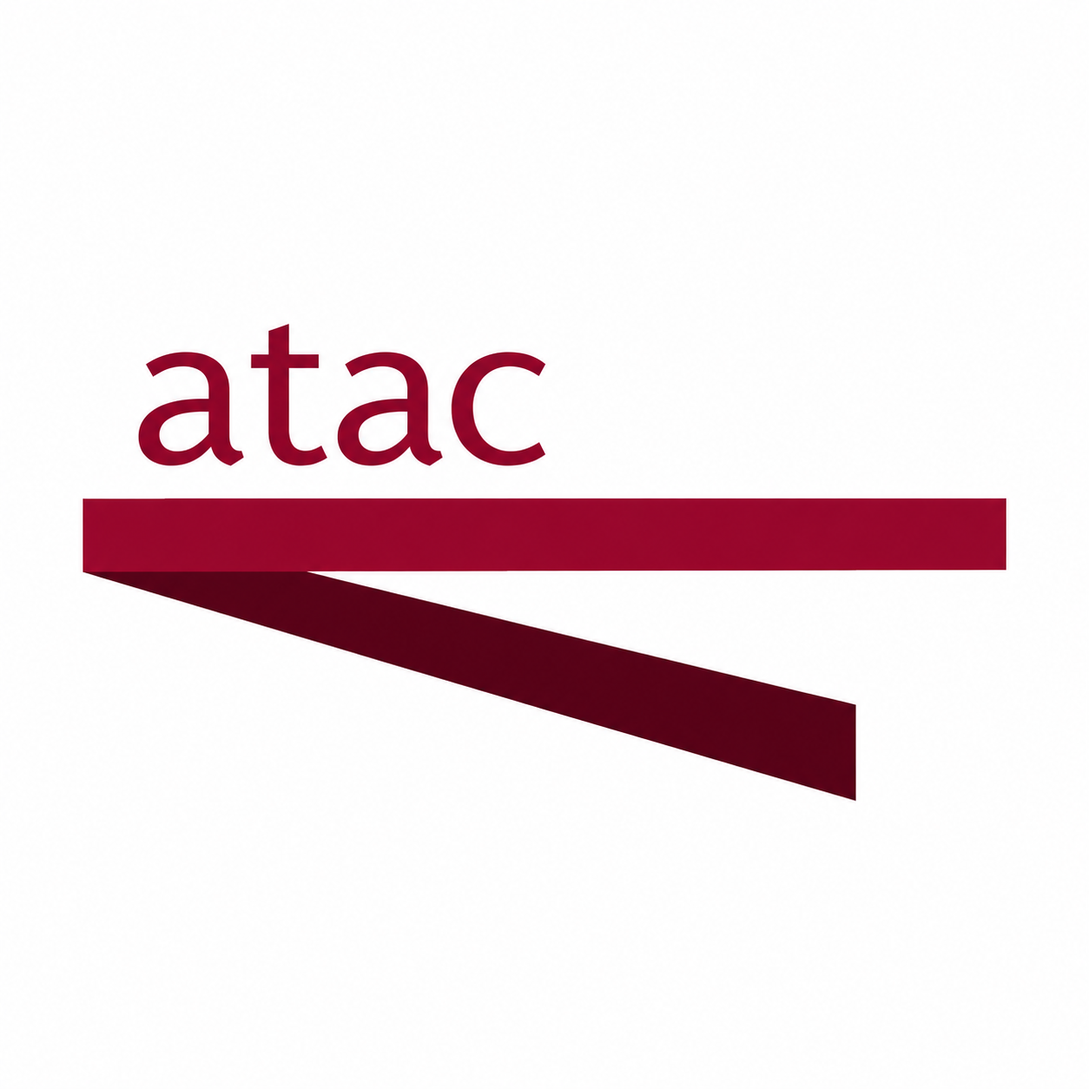
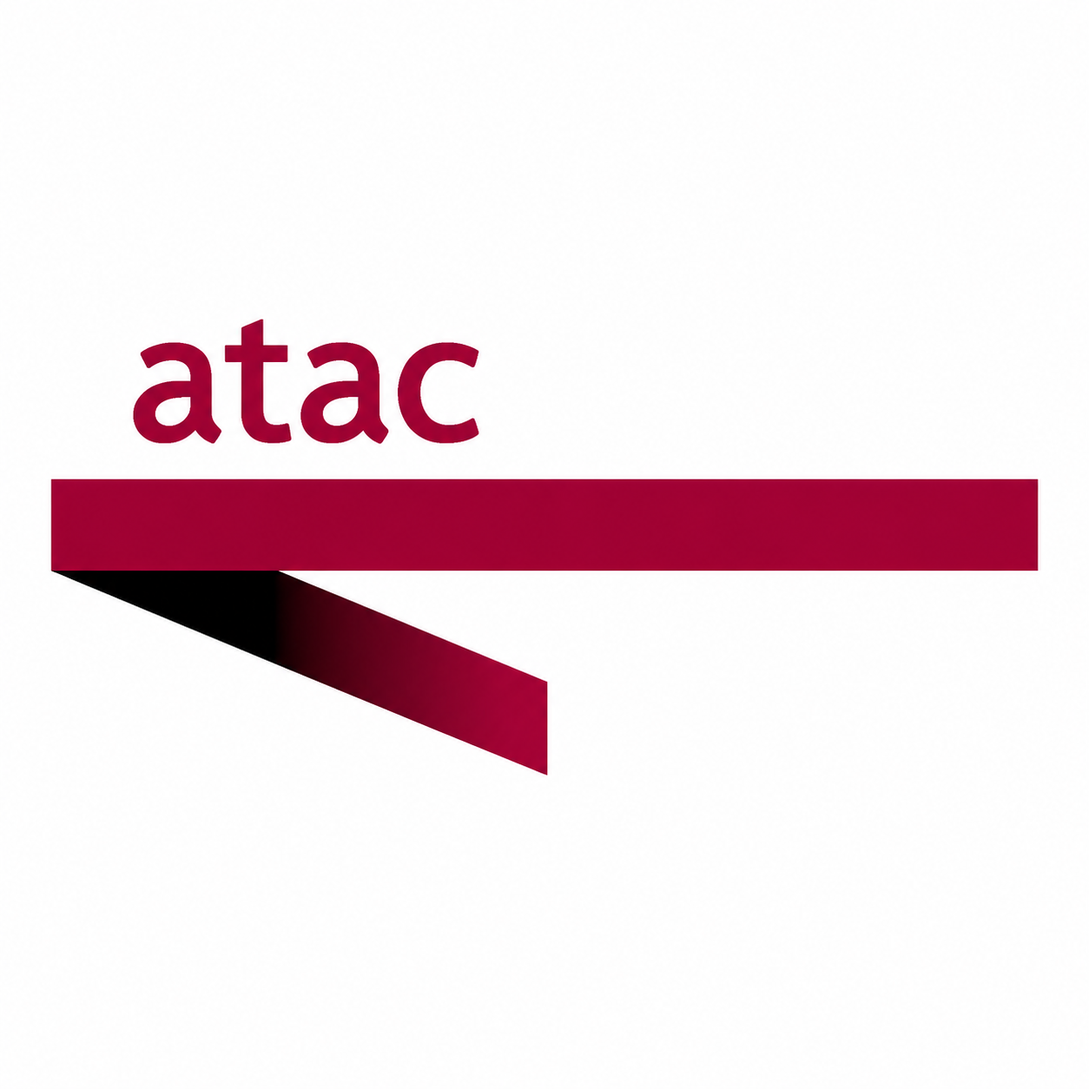
Add Liquid Glass styling, refreshed branding and persistent bottom navigation

Changed region(s): [[0.0311, 0.2799, 0.9641, 0.7464]]

diff --git a/App.tsx b/App.tsx
@@ -1,8 +1,10 @@
+import { GlassBackground, GlassPressable, GlassProvider, GlassSurface, glassStyle } from './src/ui/Glass';
+import { NavIcon } from './src/ui/NavIcon';
 import AsyncStorage from '@react-native-async-storage/async-storage';
 import { resolveArrivalDestination } from './src/lib/resolveArrival';
 import React, { useEffect, useRef, useState } from 'react';
 import { ActivityIndicator, AppState, Image, Pressable, ScrollView, StyleSheet, Text, TextInput, View } from 'react-native';
-import { SafeAreaView } from 'react-native-safe-area-context';
+import { SafeAreaView, useSafeAreaInsets } from 'react-native-safe-area-context';
 import { StatusBar } from 'expo-status-bar';
 import { Slot, router, usePathname, useLocalSearchParams, useGlobalSearchParams } from 'expo-router';
 
@@ -23,9 +25,9 @@ async function api<T>(path: string, signal?: AbortSignal): Promise<T> {
 export const clock = (t: number) => new Date(t * 1000).toLocaleTimeString('it-IT', { timeZone: 'Europe/Rome', hour: '2-digit', minute: '2-digit' });
 export const stamp = (t: number | null) => t ? `Aggiornato alle ${clock(t)}` : 'Nessun aggiornamento disponibile';
 export function Button({ text, onPress, disabled = false }: { text: string; onPress: () => void; disabled?: boolean }) {
-  return <Pressable accessibilityRole="button" disabled={disabled} onPress={onPress} style={[s.button, disabled && { opacity: 0.4 }]}><Text style={s.buttonText}>{text}</Text></Pressable>;
+  return <GlassPressable accessibilityRole="button" floating disabled={disabled} onPress={onPress} style={[s.button, disabled && { backgroundColor: '#e3dfe3' }]}><Text style={s.buttonText}>{text}</Text></GlassPressable>;
 }
-export function Notice({ text }: { text: string }) { return <View accessibilityRole="alert" style={s.notice}><Text style={s.muted}>{text}</Text></View>; }
+export function Notice({ text }: { text: string }) { return <GlassSurface accessibilityRole="alert" style={s.notice}><Text style={s.muted}>{text}</Text></GlassSurface>; }
 export function Badge({ name }: { name: string }) { return <View style={s.badge}><Text style={s.badgeText}>{name}</Text></View>; }
 
 // Abort obsolete requests. Retained line boards check vehicle freshness separately.
@@ -66,10 +68,11 @@ function StopSearch({ label, selected, onSelect }: { label: string; selected: St
     <TextInput accessibilityLabel={label} placeholder="Nome o codice fermata" placeholderTextColor="#738197" value={selected?.name || query} onChangeText={text => { onSelect(null); setQuery(text); }} style={s.input} autoCorrect={false} />
     <RequestState state={state} />
     {state.data?.length === 0 && <Text style={s.muted}>Nessuna fermata trovata.</Text>}
-    {!selected && state.data?.map(stop => <Pressable accessibilityRole="button" key={stop.stop_id} style={s.stop} onPress={() => onSelect(stop)}><Text style={s.body}>{stop.name}</Text><Text style={s.small}>Fermata {stop.stop_id}</Text></Pressable>)}
+    {!selected && state.data?.map(stop => <GlassPressable accessibilityRole="button" key={stop.stop_id} style={s.stop} onPress={() => onSelect(stop)}><Text style={s.body}>{stop.name}</Text><Text style={s.small}>Fermata {stop.stop_id}</Text></GlassPressable>)}
   </View>;
 }
 export default function App() {
+  const insets = useSafeAreaInsets();
   const [logoReady, setLogoReady] = useState(false);
   const pathname = usePathname();
   const params = useGlobalSearchParams<{ id?: string; variant?: string; stopId?: string; fromRouteId?: string; fromVariant?: string; fromLine?: string }>();
@@ -77,45 +80,54 @@ export default function App() {
   const home = pathname === '/';
   const lineDetail = pathname.startsWith('/line/');
   const stopDetail = pathname.startsWith('/stop/') || (pathname === '/stops' && Boolean(params.stopId));
-  const tab = pathname === '/stops' ? 'stops' : pathname === '/plan' ? 'plan' : 'lines';
+  const tab = stopDetail || pathname === '/stops' ? 'stops' : pathname === '/plan' ? 'plan' : 'lines';
   useEffect(() => { scroll.current?.scrollTo({ y: 0, animated: false }); }, [pathname, params.stopId]);
   const returnToSearch = () => router.replace({ pathname: '/lines', params: { focus: '1' } });
   const returnFromStop = () => {
     if (params.fromRouteId && params.fromVariant) router.replace({ pathname: '/line/[id]/[variant]', params: { id: params.fromRouteId, variant: params.fromVariant } });
     else router.replace('/stops');
   };
-  return <SafeAreaView style={s.safe}><StatusBar style="dark" />
-    {!home && !lineDetail && !stopDetail && <View style={s.fixedHeader}><Pressable accessibilityRole="button" accessibilityLabel="Torna alla home" style={s.headerAction} onPress={() => router.replace('/')}><Text style={s.headerActionText}>← Home</Text></Pressable></View>}
-    {!home && !lineDetail && !stopDetail && <View style={s.tabs}>{([['lines', 'Linee'], ['stops', 'Fermate'], ['plan', 'Percorso']] as const).map(([key, label]) => <Pressable accessibilityRole="tab" accessibilityState={{ selected: key === tab }} key={key} onPress={() => router.replace(key === 'lines' ? '/lines' : key === 'stops' ? '/stops' : '/plan')} style={[s.tab, key === tab && s.active]}><Text style={[s.tabText, key === tab && { color: '#a01d35' }]}>{label}</Text></Pressable>)}</View>}
+  return <GlassProvider><View style={s.safe}><GlassBackground /><SafeAreaView edges={['top', 'left', 'right']} style={s.safeContent}><StatusBar style="dark" />
+    {!home && !lineDetail && !stopDetail && <View style={s.fixedHeader}><GlassPressable floating accessibilityRole="button" accessibilityLabel="Torna alla home" style={s.headerAction} onPress={() => router.replace('/')}><Text style={s.headerActionText}>← Home</Text></GlassPressable></View>}
+
     {(lineDetail || stopDetail) && <View style={s.fixedHeader}>
-      <Pressable accessibilityRole="button" accessibilityLabel={lineDetail ? 'Torna a cerca linea' : params.fromRouteId && params.fromVariant ? 'Torna alla linea' : 'Torna a cerca fermata'} style={[s.headerAction, s.headerReturn]} onPress={lineDetail ? returnToSearch : returnFromStop}>
+      <GlassPressable floating accessibilityRole="button" accessibilityLabel={lineDetail ? 'Torna a cerca linea' : params.fromRouteId && params.fromVariant ? 'Torna alla linea' : 'Torna a cerca fermata'} style={[s.headerAction, s.headerReturn]} onPress={lineDetail ? returnToSearch : returnFromStop}>
         <Text numberOfLines={1} style={s.headerActionText}>{lineDetail ? '← Cerca linea' : params.fromRouteId && params.fromVariant ? `← Torna alla linea ${params.fromLine || ''}` : '← Cerca fermata'}</Text>
-      </Pressable>
-      {lineDetail && params.id && params.variant && <Pressable accessibilityRole="button" accessibilityLabel="Cambia direzione" style={s.headerAction} onPress={() => router.replace({ pathname: '/line/[id]', params: { id: params.id! } })}><Text style={s.headerActionText}>Direzione</Text></Pressable>}
+      </GlassPressable>
+      {lineDetail && params.id && params.variant && <GlassPressable floating accessibilityRole="button" accessibilityLabel="Cambia direzione" style={s.headerAction} onPress={() => router.replace({ pathname: '/line/[id]', params: { id: params.id! } })}><Text style={s.headerActionText}>Direzione</Text></GlassPressable>}
     </View>}
     <View style={[s.content, home && s.homeContent]}><ScrollView ref={scroll} keyboardShouldPersistTaps="handled" contentContainerStyle={home ? s.homeScroll : s.scroll}>
       <Slot />
     </ScrollView></View>
+    {!home && <View pointerEvents="box-none" style={[s.bottomDock, { paddingBottom: Math.max(insets.bottom, 12) }]}>
+      <GlassSurface floating style={s.bottomBar} accessibilityRole="tablist">
+        {([['lines', 'Linee'], ['stops', 'Fermate'], ['plan', 'Percorso']] as const).map(([key, label]) => <Pressable key={key} accessibilityRole="tab" accessibilityLabel={label} aria-selected={key === tab} accessibilityState={{ selected: key === tab }} onPress={() => router.replace(key === 'lines' ? '/lines' : key === 'stops' ? '/stops' : '/plan')} style={({ pressed }) => [s.bottomTab, key === tab && s.bottomTabActive, pressed && s.bottomTabPressed]}>
+          <NavIcon kind={key} active={key === tab} /><Text style={[s.bottomTabText, key === tab && s.bottomTabSelected]}>{label}</Text>
+        </Pressable>)}
+      </GlassSurface>
+    </View>}
     {!logoReady && <View accessibilityLabel="Avvio app" style={s.launchScreen}>
       <Image source={ATAC_LOGO} resizeMode="contain" accessibilityLabel="Logo ATAC" style={s.launchLogo} onLoadEnd={() => requestAnimationFrame(() => requestAnimationFrame(() => setLogoReady(true)))} />
-      <ActivityIndicator color="#a01d35" accessibilityLabel="Caricamento" />
+      <Text style={s.launchName}>ROMA · AUTOBUS</Text>
+      <ActivityIndicator color="#96002d" accessibilityLabel="Caricamento" />
     </View>}
-  </SafeAreaView>;
+  </SafeAreaView></View></GlassProvider>;
 }
 export function Home() {
   const state = useData<Health>('status', 30000);
   const live = state.data?.vehicles.available && state.data?.updates.available;
   return <View style={s.home}>
     <View style={s.homeHeader}>
-      <View style={s.row}><Text style={s.eyebrow}>ROMA · AUTOBUS</Text><Text style={[s.small, { color: live ? '#167450' : '#9b6a20' }]}>{live ? '● Feed live' : state.loading ? 'Verifica live…' : '● Live non disponibile'}</Text></View>
-      <Image source={ATAC_LOGO} resizeMode="contain" accessibilityLabel="Logo ATAC" style={s.homeLogo} />
+      <Image source={ATAC_LOGO} resizeMode="cover" accessibilityLabel="Logo ATAC" style={s.homeLogo} />
+      <Text style={s.eyebrow}>ROMA · AUTOBUS</Text>
+      <Text style={[s.livePill, { color: live ? '#167450' : '#815b25' }]}>{live ? '● Feed live' : state.loading ? 'Verifica live…' : '● Live non disponibile'}</Text>
       <Text style={s.homeTitle}>La città, in movimento.</Text>
       <Text style={s.homeSubtitle}>Linee, fermate e percorsi a Roma</Text>
     </View>
     <View style={s.homeActions}>
-      <Button text="Cerca linea" onPress={() => router.push('/lines')} />
-      <Button text="Cerca fermata" onPress={() => router.push('/stops')} />
-      <Button text="Calcola percorso" onPress={() => router.push('/plan')} />
+      {([['lines', 'Cerca linea'], ['stops', 'Cerca fermata'], ['plan', 'Calcola percorso']] as const).map(([kind, label]) => <GlassPressable floating key={kind} accessibilityRole="button" style={s.homeAction} onPress={() => router.push(kind === 'lines' ? '/lines' : kind === 'stops' ? '/stops' : '/plan')}>
+        <View style={s.homeActionIcon}><NavIcon kind={kind} active /></View><Text style={s.homeActionText}>{label}</Text><Text style={s.arrow}>›</Text>
+      </GlassPressable>)}
     </View>
   </View>;
 }
@@ -154,7 +166,7 @@ export function Lines() {
     {state.data?.length === 0 && <Notice text="Nessuna linea trovata." />}
     {!!recentError && <Notice text={recentError} />}
     {opening && <ActivityIndicator color="#a01d35" />}
-    {results.map(r => <Pressable disabled={opening} accessibilityRole="button" key={r.route_id} style={s.route} onPress={() => openLine(r)}><Badge name={r.name} /><View style={s.flex}><Text style={s.body}>{r.description || `Linea ${r.name}`}</Text><Text style={s.small}>Scegli la direzione →</Text></View><Text style={s.arrow}>›</Text></Pressable>)}
+    {results.map(r => <GlassPressable disabled={opening} accessibilityRole="button" key={r.route_id} style={s.route} onPress={() => openLine(r)}><Badge name={r.name} /><View style={s.flex}><Text style={s.body}>{r.description || `Linea ${r.name}`}</Text><Text style={s.small}>Scegli la direzione →</Text></View><Text style={s.arrow}>›</Text></GlassPressable>)}
   </View>;
 }
 export function Stops() {
@@ -193,7 +205,7 @@ export function Stops() {
   return <View style={s.stack}>
     <Text style={s.heading}>{specificStop ? 'Autobus in arrivo' : 'Cerca fermata'}</Text>
     {specificStop && <Text style={s.muted}>Tutte le linee · prossime 2 ore</Text>}
-    {specificStop && stop ? <View style={s.card}><Text style={s.heading}>{stop.name}</Text><Text style={s.small}>Fermata {stop.stop_id}</Text></View> : <StopSearch label="Fermata" selected={stop} onSelect={selected => { if (selected) router.push({ pathname: '/stop/[stopId]', params: { stopId: selected.stop_id, stopName: selected.name } }); else setStop(null); }} />}
+    {specificStop && stop ? <GlassSurface style={s.card}><Text style={s.heading}>{stop.name}</Text><Text style={s.small}>Fermata {stop.stop_id}</Text></GlassSurface> : <StopSearch label="Fermata" selected={stop} onSelect={selected => { if (selected) router.push({ pathname: '/stop/[stopId]', params: { stopId: selected.stop_id, stopName: selected.name } }); else setStop(null); }} />}
     <RequestState state={state} />
     {openingRoute && <View style={s.row}><ActivityIndicator color="#a01d35" /><Text style={s.muted}>Apertura itinerario…</Text></View>}
     {!!navigationError && <Notice text={navigationError} />}
@@ -203,10 +215,10 @@ export function Stops() {
       <Text style={s.muted}>{liveFresh ? stamp(state.data.timestamp) : 'Previsioni live non disponibili · solo orari programmati'}</Text>
       <Text style={s.label}>{arrivals.length} {arrivals.length === 1 ? 'arrivo disponibile' : 'arrivi disponibili'} per questa fermata</Text>
       {!arrivals.length && <Notice text="Nessun arrivo disponibile nelle prossime 2 ore. Riprova o aggiorna gli orari." />}
-      {arrivals.map((a,i) => <Pressable key={`${a.tripId}-${i}`} accessibilityRole="button" accessibilityLabel={`Linea ${a.line}, direzione ${a.headsign}${a.vehicleId ? `, vettura ${a.vehicleId}` : ''}, mostra itinerario e autobus`} disabled={openingRoute === a.tripId} style={s.route} onPress={() => { void openArrival(a); }}>
+      {arrivals.map((a,i) => <GlassPressable key={`${a.tripId}-${i}`} accessibilityRole="button" accessibilityLabel={`Linea ${a.line}, direzione ${a.headsign}${a.vehicleId ? `, vettura ${a.vehicleId}` : ''}, mostra itinerario e autobus`} disabled={openingRoute === a.tripId} style={s.route} onPress={() => { void openArrival(a); }}>
         <Badge name={a.line} /><View style={s.flex}><Text style={s.body}>{a.headsign || 'Autobus'}</Text><Text style={[s.small, a.kind === 'live' && { color: '#167450' }]}>{a.kind === 'live' ? `● Previsione live · vettura ${a.vehicleId || 'non disponibile'}` : 'Orario programmato'}</Text></View>
         <View style={s.arrivalTime}><Text style={s.time}>{Math.ceil((a.time - now) / 60) <= 1 ? '≤1 min' : `${Math.ceil((a.time - now) / 60)} min`}</Text><Text style={s.small}>{clock(a.time)} ›</Text></View>
-      </Pressable>)}
+      </GlassPressable>)}
     </>}
   </View>;
 }
@@ -233,27 +245,29 @@ export function Planner() {
     <Button text={loading ? 'Calcolo in corso…' : 'Trova percorso →'} disabled={!origin || !destination || loading} onPress={() => { void calculate(); }} />
     <Notice text="Orari programmati: solo autobus, cambi alla stessa fermata e margine di 2 minuti. Nessun tratto a piedi; traffico e previsioni live non modificano l’itinerario." />
     {!!error && <Notice text={error} />}
-    {journey && <><Text style={s.muted}>{journey.message}</Text>{journey.legs.map((leg,i) => <View key={i} style={s.card}><View style={s.row}><Badge name={leg.line} /><Text style={s.heading}>{clock(leg.departure)} → {clock(leg.arrival)}</Text></View><Text style={s.body}>{leg.fromName}</Text><Text style={s.muted}>↓ {leg.stops} {leg.stops === 1 ? 'fermata' : 'fermate'}</Text><Text style={s.body}>{leg.toName}</Text>{i < journey.legs.length-1 && <Text style={s.link}>Cambia autobus qui</Text>}</View>)}</>}
+    {journey && <><Text style={s.muted}>{journey.message}</Text>{journey.legs.map((leg,i) => <GlassSurface key={i} style={s.card}><View style={s.row}><Badge name={leg.line} /><Text style={s.heading}>{clock(leg.departure)} → {clock(leg.arrival)}</Text></View><Text style={s.body}>{leg.fromName}</Text><Text style={s.muted}>↓ {leg.stops} {leg.stops === 1 ? 'fermata' : 'fermate'}</Text><Text style={s.body}>{leg.toName}</Text>{i < journey.legs.length-1 && <Text style={s.link}>Cambia autobus qui</Text>}</GlassSurface>)}</>}
   </View>;
 }
 const s = StyleSheet.create({
-  safe: { flex: 1, backgroundColor: '#f8f6f2' },
-  homeLogo: { width: 100, height: 50, alignSelf: 'flex-start' }, launchScreen: { position: 'absolute', top: 0, right: 0, bottom: 0, left: 0, zIndex: 10, backgroundColor: '#ffffff', justifyContent: 'center', alignItems: 'center', gap: 24 }, launchLogo: { width: 200, height: 100 },
-  fixedHeader: { minHeight: 56, paddingHorizontal: 16, paddingVertical: 6, flexDirection: 'row', justifyContent: 'flex-start', alignItems: 'center', gap: 8, borderBottomWidth: 1, borderBottomColor: '#e3dfd8', marginBottom: 12 },
-  headerAction: { minHeight: 44, justifyContent: 'center', paddingHorizontal: 12, borderRadius: 10 }, headerReturn: { backgroundColor: '#ebe8e3', maxWidth: '80%' }, headerActionText: { color: '#a01d35', fontWeight: '700', fontSize: 13 },
-  homeContent: { paddingHorizontal: 24 }, homeScroll: { flexGrow: 1 }, home: { flex: 1, gap: 32, width: '100%', maxWidth: 420, alignSelf: 'center', paddingVertical: 20 }, homeHeader: { gap: 8 }, homeActions: { gap: 20 }, eyebrow: { fontSize: 11, fontWeight: '800', color: '#a01d35', letterSpacing: 1.4, flex: 1 }, homeTitle: { fontSize: 34, fontWeight: '800', color: '#202d3a', marginTop: 14, letterSpacing: -1.3 }, homeSubtitle: { color: '#596878', fontSize: 16 }, flex: { flex: 1 }, stack: { gap: 14 },
+  safe: { flex: 1, backgroundColor: '#f4f0f3' }, safeContent: { flex: 1 },
+  homeLogo: { width: 240, height: 130, alignSelf: 'center' }, launchScreen: { position: 'absolute', top: 0, right: 0, bottom: 0, left: 0, zIndex: 10, backgroundColor: '#ffffff', justifyContent: 'center', alignItems: 'center', gap: 8 }, launchLogo: { width: 240, height: 240 }, launchName: { color: '#96002d', fontWeight: '800', fontSize: 12, letterSpacing: 2, marginBottom: 24 },
+  fixedHeader: { minHeight: 56, paddingHorizontal: 16, paddingVertical: 6, flexDirection: 'row', justifyContent: 'flex-start', alignItems: 'center', gap: 8, marginBottom: 12 },
+  headerAction: { minHeight: 44, justifyContent: 'center', paddingHorizontal: 12, borderRadius: 22 }, headerReturn: { maxWidth: '100%' }, headerActionText: { color: '#a01d35', fontWeight: '700', fontSize: 13 },
+  homeContent: { paddingHorizontal: 24 }, homeScroll: { flexGrow: 1 }, home: { flex: 1, gap: 28, width: '100%', maxWidth: 420, alignSelf: 'center', paddingTop: 12, paddingBottom: 36 }, homeHeader: { gap: 12, alignItems: 'center' }, homeActions: { gap: 14 }, eyebrow: { fontSize: 11, fontWeight: '800', color: '#a01d35', letterSpacing: 2.2 }, homeTitle: { fontSize: 34, fontWeight: '800', color: '#202d3a', marginTop: 6, letterSpacing: -1.3, textAlign: 'center' }, homeSubtitle: { color: '#536373', fontSize: 15, textAlign: 'center' }, flex: { flex: 1 }, stack: { gap: 14 },
   row: { flexDirection: 'row', alignItems: 'center', gap: 12 },
-  tabs: { flexDirection: 'row', marginHorizontal: 20, padding: 5, backgroundColor: '#ebe8e3', borderRadius: 16, marginBottom: 12, marginTop: 8 },
-  tab: { flex: 1, paddingVertical: 12, alignItems: 'center', borderRadius: 12 }, active: { backgroundColor: '#fff' }, tabText: { fontWeight: '600', color: '#596878', fontSize: 15 },
-  content: { flex: 1, paddingHorizontal: 20 }, scroll: { paddingBottom: 30, gap: 14 }, heading: { color: '#202d3a', fontSize: 20, fontWeight: '700', flexShrink: 1 },
+  livePill: { fontSize: 11, fontWeight: '600', paddingHorizontal: 12, paddingVertical: 6, borderRadius: 20, backgroundColor: 'rgba(255,255,255,0.65)', overflow: 'hidden' },
+  homeAction: { flexDirection: 'row', alignItems: 'center', padding: 16, gap: 14, borderRadius: 26, minHeight: 78 }, homeActionIcon: { width: 44, height: 44, borderRadius: 16, backgroundColor: 'rgba(150,0,45,0.06)', alignItems: 'center', justifyContent: 'center' }, homeActionText: { flex: 1, color: '#253240', fontSize: 17, fontWeight: '700' },
+  bottomDock: { position: 'absolute', bottom: 0, left: 0, right: 0, paddingHorizontal: 16, paddingTop: 12 }, bottomBar: { flexDirection: 'row', borderRadius: 32, padding: 6, maxWidth: 460, width: '100%', alignSelf: 'center' },
+  bottomTab: { flex: 1, alignItems: 'center', justifyContent: 'center', gap: 4, paddingVertical: 10, borderRadius: 26, minHeight: 62 }, bottomTabActive: { backgroundColor: 'rgba(150,0,45,0.085)', boxShadow: 'inset 0 1px 0 rgba(255,255,255,0.9)' }, bottomTabPressed: { backgroundColor: 'rgba(150,0,45,0.12)' }, bottomTabText: { color: '#536373', fontSize: 11, fontWeight: '600' }, bottomTabSelected: { color: '#96002d', fontWeight: '800' },
+  content: { flex: 1, paddingHorizontal: 20 }, scroll: { paddingBottom: 140, gap: 14 }, heading: { color: '#202d3a', fontSize: 20, fontWeight: '700', flexShrink: 1 },
   muted: { color: '#596878', fontSize: 14, lineHeight: 21 }, small: { color: '#596878', fontSize: 11, lineHeight: 16 }, body: { color: '#202d3a', fontSize: 16, fontWeight: '600' },
-  input: { backgroundColor: '#fff', borderWidth: 1, borderColor: '#dedbd5', borderRadius: 14, paddingHorizontal: 16, paddingVertical: 16, color: '#202d3a', fontSize: 16, marginVertical: 12 },
-  route: { paddingVertical: 18, borderBottomWidth: 1, borderBottomColor: '#e3dfd8', flexDirection: 'row', gap: 14, alignItems: 'center' },
-  badge: { minWidth: 52, borderRadius: 12, padding: 12, backgroundColor: '#a01d35', alignItems: 'center' }, badgeText: { color: '#fff', fontSize: 18, fontWeight: '800' },
+  input: { ...glassStyle, borderRadius: 24, paddingHorizontal: 16, paddingVertical: 16, color: '#202d3a', fontSize: 16, marginVertical: 12 },
+  route: { padding: 16, flexDirection: 'row', gap: 14, alignItems: 'center' },
+  badge: { minWidth: 52, borderRadius: 18, padding: 12, backgroundColor: 'rgba(150,0,45,0.10)', alignItems: 'center', borderWidth: 1, borderColor: 'rgba(150,0,45,0.08)' }, badgeText: { color: '#96002d', fontSize: 18, fontWeight: '800' },
   arrow: { fontSize: 28, color: '#a01d35' }, time: { fontSize: 20, fontWeight: '700', color: '#202d3a' },
   arrivalTime: { alignItems: 'flex-end', gap: 4 },
-  button: { backgroundColor: '#a01d35', padding: 16, borderRadius: 14, alignItems: 'center' }, buttonText: { color: '#fff', fontWeight: '700', fontSize: 15 },
-  notice: { backgroundColor: '#eee9df', padding: 14, borderRadius: 12, marginVertical: 8 }, card: { backgroundColor: '#fff', borderRadius: 18, padding: 18, gap: 12, borderColor: '#e4dfd8', borderWidth: 1 },
+  button: { padding: 16, borderRadius: 24, alignItems: 'center' }, buttonText: { color: '#96002d', fontWeight: '700', fontSize: 15 },
+  notice: { padding: 14, borderRadius: 20, marginVertical: 8 }, card: { borderRadius: 24, padding: 18, gap: 12 },
   link: { color: '#a01d35', fontWeight: '600', fontSize: 14 },
-  label: { color: '#202d3a', fontSize: 13, fontWeight: '700' }, stop: { padding: 14, backgroundColor: '#fff', borderBottomWidth: 1, borderBottomColor: '#eee9df' },
+  label: { color: '#202d3a', fontSize: 13, fontWeight: '700' }, stop: { padding: 14, marginBottom: 8 },
 });

diff --git a/src/components/LineDetails.tsx b/src/components/LineDetails.tsx
@@ -1,3 +1,4 @@
+import { GlassPressable, GlassSurface } from '../ui/Glass';
 import React, { useEffect, useState } from 'react';
 import { Linking, Pressable, ScrollView, StyleSheet, Text, View } from 'react-native';
 import { router, useLocalSearchParams } from 'expo-router';
@@ -18,10 +19,10 @@ export function RouteDirections() {
       <View style={s.row}><Badge name={state.data.route.name} /><Text style={s.heading}>Scegli la direzione</Text></View>
       <Text style={s.muted}>Verso quale capolinea vuoi andare?</Text>
       {!state.data.variants.length && <Notice text="Nessuna direzione in servizio ora o in partenza nella prossima ora." />}
-      {state.data.variants.map(variant => <Pressable accessibilityRole="button" accessibilityLabel={`Direzione ${variant.headsign}, da ${variant.fromName}`} key={variant.id}
+      {state.data.variants.map(variant => <GlassPressable accessibilityRole="button" accessibilityLabel={`Direzione ${variant.headsign}, da ${variant.fromName}`} key={variant.id}
         style={s.direction} onPress={() => router.push({ pathname: '/line/[id]/[variant]', params: { id, variant: variant.id } })}>
         <View style={s.flex}><Text style={s.kicker}>DIREZIONE</Text><Text style={s.directionName}>{variant.headsign}</Text><Text style={s.muted}>Da {variant.fromName}</Text><Text style={s.small}>{variant.stopCount} fermate</Text></View><Text style={s.chevron}>›</Text>
-      </Pressable>)}
+      </GlassPressable>)}
     </>}
   </View>;
 }
@@ -52,15 +53,15 @@ export function RouteTimeline() {
     <RequestState state={state} />
     {data && <>
       <Text style={s.heading}>{data.route.name}-{data.selectedVariant.headsign.toLocaleUpperCase('it-IT')}</Text>
-      <View style={s.departureStrip}>
+      <GlassSurface style={s.departureStrip}>
         <Text numberOfLines={1} style={s.departureLabel} accessibilityLabel="Partenze dal capolinea, da dieci minuti fa a un’ora avanti">Partenze da {data.selectedVariant.fromName.toLocaleUpperCase('it-IT')}:</Text>
         <ScrollView horizontal showsHorizontalScrollIndicator={false} style={s.departureScroller} contentContainerStyle={s.departureTrack}>
           {departures.map((departure, i) => <Text key={`${departure.tripId}-${departure.serviceDate}-${i}`} numberOfLines={1} accessibilityLabel={`Partenza ${clock(departure.time)}, ${departure.kind === 'live' ? 'previsione live' : 'orario programmato'}`} style={[s.departureTime, departure.kind === 'live' && s.liveTime, departure.time < now && s.pastTime]}>{clock(departure.time)} <Text style={s.departureKind}>{departure.kind === 'live' ? 'live' : 'prog.'}</Text></Text>)}
           {!departures.length && <Text style={s.small}>Nessuna nella fascia −10/+60 min</Text>}
         </ScrollView>
-      </View>
+      </GlassSurface>
       <Text style={s.heading}>Fermate</Text>
-      <View style={s.timeline}>
+      <GlassSurface style={s.timeline}>
         {data.stops.map((stop, i) => {
           const before = stop.vehiclesBefore.filter(v => fresh(v, now)), at = stop.vehiclesAt.filter(v => fresh(v, now));
           return <View key={`${stop.stop_id}-${stop.sequence}`}>
@@ -76,14 +77,14 @@ export function RouteTimeline() {
               </Pressable>
             </View>
 
-      {selected && vehicleInfo && [...stop.vehiclesAt, ...stop.vehiclesBefore].some(v => v.id === selected.id) && <View accessibilityRole="alert" style={s.vehicleInfo}>
+      {selected && vehicleInfo && [...stop.vehiclesAt, ...stop.vehiclesBefore].some(v => v.id === selected.id) && <GlassSurface accessibilityRole="alert" style={s.vehicleInfo}>
         <View style={s.row}><Text style={[s.heading, s.flex]}>Bus {selected.id}</Text><Pressable accessibilityRole="button" accessibilityLabel="Chiudi dettagli autobus" onPress={() => setVehicleInfo(null)}><Text style={s.close}>×</Text></Pressable></View>
         <Text style={s.muted}>{selected.retained || Boolean(state.error) || now - selected.timestamp > 90 ? 'Ultima posizione nota vicino a' : selected.estimated ? 'Posizione approssimata vicino a' : selected.status === 'STOPPED_AT' ? 'Alla fermata' : 'In arrivo a'} {vehicleInfo.stopName}</Text><Text style={s.small}>{selected.timestampSource === 'feed' ? 'Timestamp del feed · ' : 'Rilevazione veicolo · '}{positionStamp(selected.timestamp).replace('Posizioni alle ', '')}</Text>
         {selected.lat !== null && selected.lon !== null && <Pressable accessibilityRole="link" onPress={() => { void Linking.openURL(`https://maps.apple.com/?ll=${selected.lat},${selected.lon}&q=Bus%20${encodeURIComponent(data.route.name)}`); }}><Text style={s.link}>Apri posizione in Mappe ↗</Text></Pressable>}
-      </View>}
+      </GlassSurface>}
           </View>;
         })}
-      </View>
+      </GlassSurface>
       <Text style={s.small}>{data.liveAvailable ? `${positionStamp(data.timestamp)} · ogni 15 s` : 'Posizioni live non disponibili'}</Text>
       {data.liveAvailable && !vehicleCount && <Notice text="Nessun bus localizzabile su questa direzione dal feed attuale. Non indica necessariamente assenza di servizio." />}
       {!!data.unplacedVehicleCount && <Notice text={`${data.unplacedVehicleCount} posizioni non associabili alle fermate: non vengono collocate sul percorso.`} />}
@@ -97,14 +98,14 @@ const s = StyleSheet.create({
   flex: { flex: 1 }, stack: { gap: 14 }, row: { flexDirection: 'row', alignItems: 'center', gap: 12 },
   heading: { color: '#202d3a', fontSize: 20, fontWeight: '700', flexShrink: 1 }, muted: { color: '#596878', fontSize: 14, lineHeight: 21 }, small: { color: '#596878', fontSize: 11, lineHeight: 16 },
   kicker: { color: '#a01d35', fontSize: 10, fontWeight: '800', letterSpacing: 1.2, marginBottom: 4 },
-  direction: { flexDirection: 'row', alignItems: 'center', padding: 20, backgroundColor: '#fff', borderWidth: 1, borderColor: '#dedbd5', borderRadius: 18, gap: 12 }, directionName: { color: '#202d3a', fontSize: 22, fontWeight: '700', marginBottom: 8 }, chevron: { color: '#a01d35', fontSize: 30 },
-  departureStrip: { gap: 3, borderWidth: 1, borderColor: '#e4dfd8', backgroundColor: '#fff', borderRadius: 10, paddingHorizontal: 10, paddingVertical: 7 },
+  direction: { flexDirection: 'row', alignItems: 'center', padding: 20, borderRadius: 26, gap: 12 }, directionName: { color: '#202d3a', fontSize: 22, fontWeight: '700', marginBottom: 8 }, chevron: { color: '#a01d35', fontSize: 30 },
+  departureStrip: { gap: 3, borderRadius: 20, paddingHorizontal: 10, paddingVertical: 7 },
   departureLabel: { flexShrink: 0, fontSize: 11, color: '#596878', fontWeight: '600' }, departureScroller: { height: 26 }, departureTrack: { minHeight: 26, alignItems: 'center', gap: 14, paddingRight: 6 }, departureTime: { fontSize: 14, color: '#202d3a', fontWeight: '700' }, departureKind: { fontSize: 10, fontWeight: '400' }, liveTime: { color: '#167450' }, pastTime: { color: '#8b9298' },
   legend: { fontSize: 11, lineHeight: 17, color: '#596878' },
-  timeline: { backgroundColor: '#fff', borderRadius: 18, paddingVertical: 14, paddingRight: 14, overflow: 'hidden' }, incomingRow: { flexDirection: 'row', alignItems: 'stretch', minHeight: 24 }, timelineRow: { flexDirection: 'row', alignItems: 'stretch', minHeight: 48 },
+  timeline: { borderRadius: 26, paddingVertical: 14, paddingRight: 14, overflow: 'hidden' }, incomingRow: { flexDirection: 'row', alignItems: 'stretch', minHeight: 24 }, timelineRow: { flexDirection: 'row', alignItems: 'stretch', minHeight: 48 },
   vehicleLane: { width: 48, justifyContent: 'center', alignItems: 'center', paddingVertical: 1, gap: 2 }, rail: { width: 18, alignItems: 'center' }, line: { flex: 1, width: 3, backgroundColor: '#16845e', minHeight: 12 }, invisible: { backgroundColor: 'transparent' }, stopDot: { width: 10, height: 10, borderRadius: 5, backgroundColor: '#fff', borderWidth: 2, borderColor: '#16845e' }, lastStop: { backgroundColor: '#a01d35', borderColor: '#a01d35', borderRadius: 2 },
   stopName: { flex: 1, justifyContent: 'center', paddingLeft: 12, paddingVertical: 10, minHeight: 48 }, stopText: { color: '#a01d35', fontWeight: '700', fontSize: 15, lineHeight: 21 },
   stopTitle: { flexDirection: 'row', alignItems: 'center', gap: 10 }, stopArrow: { color: '#a01d35', fontSize: 22 },
   busButton: { width: 36, minHeight: 24, alignItems: 'center', justifyContent: 'center', paddingVertical: 1 }, busBody: { width: 12, height: 15, backgroundColor: '#a01d35', borderRadius: 4, padding: 2, justifyContent: 'space-between' }, retainedBus: { backgroundColor: '#92989d' }, estimatedBus: { backgroundColor: '#8c6a2e' }, destinationPanel: { height: 2, backgroundColor: '#f4d991', borderRadius: 1 }, windshield: { height: 5, backgroundColor: '#f8f6f2', borderRadius: 2 }, lights: { flexDirection: 'row', justifyContent: 'space-between' }, light: { width: 3, height: 2, borderRadius: 1, backgroundColor: '#fff1a8' }, wheels: { position: 'absolute', bottom: -2, left: 2, right: 2, flexDirection: 'row', justifyContent: 'space-between' }, wheel: { width: 3, height: 4, backgroundColor: '#202d3a', borderRadius: 1 }, busId: { fontSize: 8, color: '#a01d35', marginTop: 1, maxWidth: 36 },
-  vehicleInfo: { borderRadius: 14, borderWidth: 1, borderColor: '#a01d35', backgroundColor: '#fff', padding: 16, gap: 8 }, link: { color: '#a01d35', fontSize: 14, fontWeight: '600' }, close: { fontSize: 28, color: '#a01d35', paddingHorizontal: 10 },
+  vehicleInfo: { borderRadius: 20, margin: 10, padding: 16, gap: 8 }, link: { color: '#a01d35', fontSize: 14, fontWeight: '600' }, close: { fontSize: 28, color: '#a01d35', paddingHorizontal: 10 },
 });

diff --git a/src/ui/Glass.tsx b/src/ui/Glass.tsx
@@ -1,0 +1,64 @@
+import React, { createContext, useContext, useEffect, useState } from 'react';
+import { AccessibilityInfo, Platform, Pressable, StyleSheet, View, type PressableProps, type ViewProps } from 'react-native';
+import { BlurView } from 'expo-blur';
+import { GlassView, isGlassEffectAPIAvailable, isLiquidGlassAvailable } from 'expo-glass-effect';
+import { LinearGradient } from 'expo-linear-gradient';
+
+const ReduceTransparency = createContext(false);
+const nativeGlass = Platform.OS === 'ios' && isGlassEffectAPIAvailable() && isLiquidGlassAvailable();
+export const glassStyle = {
+  backgroundColor: 'rgba(255,255,255,0.58)',
+  borderWidth: 1,
+  borderColor: 'rgba(255,255,255,0.95)',
+  borderRadius: 22,
+  boxShadow: '0 6px 24px rgba(66,45,59,0.06), inset 0 1px 0 rgba(255,255,255,0.9)',
+} as const;
+
+export function GlassProvider({ children }: React.PropsWithChildren) {
+  const [reduced, setReduced] = useState(false);
+  useEffect(() => {
+    if (Platform.OS !== 'ios') return;
+    let active = true;
+    void AccessibilityInfo.isReduceTransparencyEnabled().then(value => { if (active) setReduced(value); }).catch(() => {});
+    const subscription = AccessibilityInfo.addEventListener('reduceTransparencyChanged', setReduced);
+    return () => { active = false; subscription.remove(); };
+  }, []);
+  return <ReduceTransparency.Provider value={reduced}>{children}</ReduceTransparency.Provider>;
+}
+
+/** Native glass for floating controls; quieter frosted material for reading surfaces. */
+export function GlassSurface({ children, style, floating = false, ...props }: ViewProps & { floating?: boolean }) {
+  const reduced = useContext(ReduceTransparency);
+  return <View {...props} style={[glassStyle, style, reduced && styles.opaque]}>
+    {!reduced && <View pointerEvents="none" accessible={false} style={[styles.material, { borderRadius: StyleSheet.flatten(style)?.borderRadius ?? 22 }]}>
+      {floating && nativeGlass
+        ? <GlassView glassEffectStyle="regular" colorScheme="light" style={styles.fill} />
+        : <BlurView tint="light" intensity={floating ? 65 : 24} style={styles.fill} />}
+      <LinearGradient colors={['rgba(255,255,255,0.48)', 'rgba(255,255,255,0.03)', 'rgba(255,255,255,0.18)']} style={styles.fill} />
+    </View>}
+    {children}
+  </View>;
+}
+
+export function GlassPressable({ children, style, floating = false, ...props }: Omit<PressableProps, 'style' | 'children'> & { children: React.ReactNode; style?: ViewProps['style']; floating?: boolean }) {
+  return <Pressable {...props} style={({ pressed }) => [pressed && styles.pressed]}>
+    <GlassSurface floating={floating} style={style}>{children}</GlassSurface>
+  </Pressable>;
+}
+
+export function GlassBackground() {
+  return <View pointerEvents="none" accessible={false} style={[styles.fill, styles.backdrop]}>
+    <LinearGradient colors={['#f8e9ed', '#f5f4f8', '#e4eff1']} start={{ x: 0, y: 0 }} end={{ x: 1, y: 1 }} style={styles.fill} />
+    <LinearGradient colors={['rgba(196,58,96,0.14)', 'rgba(239,187,199,0.02)']} style={styles.rose} />
+    <LinearGradient colors={['rgba(164,204,217,0.22)', 'rgba(222,242,244,0.02)']} style={styles.blue} />
+  </View>;
+}
+const styles = StyleSheet.create({
+  fill: { position: 'absolute', top: 0, right: 0, bottom: 0, left: 0 },
+  material: { position: 'absolute', top: 0, right: 0, bottom: 0, left: 0, overflow: 'hidden' },
+  backdrop: { overflow: 'hidden' },
+  pressed: { transform: [{ scale: 0.985 }] },
+  opaque: { backgroundColor: '#ffffff' },
+  rose: { position: 'absolute', width: 420, height: 420, borderRadius: 210, top: 120, right: -260, transform: [{ rotate: '-25deg' }] },
+  blue: { position: 'absolute', width: 460, height: 460, borderRadius: 230, bottom: -160, left: -250, transform: [{ rotate: '35deg' }] },
+});

diff --git a/src/ui/NavIcon.tsx b/src/ui/NavIcon.tsx
@@ -1,0 +1,18 @@
+import React from 'react';
+import { StyleSheet, View } from 'react-native';
+export type Category = 'lines' | 'stops' | 'plan';
+export function NavIcon({ kind, active = false }: { kind: Category; active?: boolean }) {
+  const color = active ? '#96002d' : '#536373';
+  return <View accessible={false} style={s.icon}>
+    {kind === 'lines' ? <><View style={[s.bus, { borderColor: color }]}><View style={[s.window, { borderColor: color }]} /><View style={s.lights}><View style={[s.light, { backgroundColor: color }]} /><View style={[s.light, { backgroundColor: color }]} /></View></View><View style={[s.wheel, { left: 6, backgroundColor: color }]} /><View style={[s.wheel, { right: 6, backgroundColor: color }]} /></>
+      : kind === 'stops' ? <><View style={[s.pin, { borderColor: color }]}><View style={[s.dot, { backgroundColor: color }]} /></View><View style={[s.stem, { backgroundColor: color }]} /></>
+      : <><View style={[s.route, { borderColor: color }]} /><View style={[s.endpoint, { top: 2, left: 2, borderColor: color }]} /><View style={[s.endpoint, { bottom: 2, right: 2, borderColor: color }]} /></>}
+  </View>;
+}
+const s = StyleSheet.create({
+  icon: { width: 26, height: 26, alignItems: 'center', justifyContent: 'center' },
+  bus: { width: 18, height: 20, borderWidth: 1.7, borderRadius: 5, padding: 3 }, window: { height: 7, borderBottomWidth: 1.5 },
+  lights: { flexDirection: 'row', justifyContent: 'space-between', marginTop: 4 }, light: { width: 3, height: 2, borderRadius: 1 }, wheel: { position: 'absolute', width: 3, height: 3, borderRadius: 1, bottom: 1 },
+  pin: { width: 18, height: 18, borderWidth: 1.7, borderRadius: 9, alignItems: 'center', justifyContent: 'center', marginBottom: 6 }, dot: { width: 5, height: 5, borderRadius: 3 }, stem: { position: 'absolute', width: 1.7, height: 7, bottom: 1 },
+  route: { width: 15, height: 15, borderWidth: 1.7, borderRadius: 5, transform: [{ rotate: '-20deg' }] }, endpoint: { position: 'absolute', width: 7, height: 7, borderWidth: 1.7, borderRadius: 4, backgroundColor: '#f5f0f3' },
+});

diff --git a/README.md b/README.md
@@ -6,7 +6,9 @@ Per provarla gratuitamente da Windows su iPhone, segui [la guida passo passo](PR
 
 ## Funzionalità
 
-La home conserva l’intestazione originale ROMA · AUTOBUS, titolo e sottotitolo, seguiti dai pulsanti **Cerca linea**, **Cerca fermata** e **Calcola percorso**. Le ricerche hanno le schede Linee/Fermate/Percorso; nei dettagli le schede scompaiono e il pulsante di ritorno resta fisso in alto a sinistra. Le partenze sono una riga orizzontale compatta e le fermate si aprono con la freccia accanto al nome.
+La home mostra il logo ATAC aggiornato con ROMA · AUTOBUS sotto, titolo, sottotitolo e tre pulsanti: **Cerca linea**, **Cerca fermata**, **Calcola percorso**. Fuori dalla home una barra flottante inferiore permette di passare fra Linee/Fermate/Percorso, anche nei dettagli di linee e fermate. I ritorni restano in alto a sinistra. Le partenze sono una riga orizzontale compatta e le fermate si aprono con la freccia accanto al nome.
+
+Lo stile usa superfici traslucide, sfocatura, bordi luminosi e sfondo sfumato. I controlli flottanti usano `expo-glass-effect` con Liquid Glass nativo quando entrambe le verifiche API/runtime confermano la compatibilità (iOS 26+); altrove usano `expo-blur`. Con “Riduci trasparenza” di iOS le superfici diventano opache. I tre moduli Expo aggiunti sono inclusi in Expo Go SDK 58. L’effetto nativo e le impostazioni di accessibilità vanno verificati su iPhone: il controllo in browser verifica il fallback.
 
 - Ritorno fisso alla home in alto a sinistra nelle tre categorie. Le ultime dieci linee aperte vengono salvate sul dispositivo e mostrate per prime nei risultati compatibili con la ricerca.
 - Ricerca delle linee autobus, scelta della direzione e delle varianti di percorso, partenze dal capolinea da 10 minuti fa a un’ora avanti ed elenco delle fermate.
@@ -78,4 +80,4 @@ I feed live vengono letti su richiesta: cache di 10 secondi per le posizioni e 3
 
 Gli arrivi restano apribili anche con un backend precedente che non fornisce routeId/variantId: il client risolve linea e direzione dai dati disponibili, oppure apre una scelta esplicita. Se il numero vettura non è fornito dal servizio viene indicato come non disponibile, invece di nascondere il campo. La risposta `/api/status` e quella degli arrivi includono `apiVersion: 2` nel backend aggiornato. Verifica del fallback client: `npm run test:client`.
 
-Il logo fornito dall’utente è stato preparato come asset locale in `assets/atac-logo.png`, con una versione quadrata per l’icona (`assets/atac-app-icon.png`). Compare sotto ROMA · AUTOBUS nella home, nella vista JS iniziale durante il caricamento dell’immagine e nello splash nativo configurato con expo-splash-screen. Non richiede download esterni all’avvio. Expo Go può mostrare l’icona al posto dello splash nativo: l’aspetto finale dello splash richiede una build release per la verifica.
+Il logo fornito dall’utente è stato preparato come asset locale in `assets/atac-logo.png`, con sfondo trasparente e una versione quadrata bianca per l’icona (`assets/atac-app-icon.png`). Compare sopra ROMA · AUTOBUS nella home, nella vista JS iniziale durante il caricamento dell’immagine e nello splash nativo configurato con expo-splash-screen. Non richiede download esterni all’avvio. Expo Go può mostrare l’icona al posto dello splash nativo: l’aspetto finale dello splash richiede una build release per la verifica.

diff --git a/PROVA-IPHONE-WINDOWS.md b/PROVA-IPHONE-WINDOWS.md
@@ -130,3 +130,17 @@ npm start -- --clear --lan
 ```
 
 Apri il nuovo QR in Expo Go. Nelle tre categorie trovi Home in alto a sinistra. Dopo aver aperto una linea, questa comparirà per prima nelle ricerche compatibili, anche dopo la chiusura dell’app. Le direzioni proposte hanno corse programmate già in viaggio o in partenza entro un’ora, secondo il calendario GTFS. Le partenze restano nella finestra da −10 a +60 minuti.
+
+
+## Aggiornare logo, barra inferiore e stile Liquid Glass
+
+Arresta Expo con Ctrl+C. Dal nuovo ZIP di `main` copia in `C:\ATAC` `App.tsx`, tutta `src` (inclusa la nuova cartella `ui`), tutta `assets`, `package.json` e `package-lock.json`. Mantieni `server\data`, `.venv` e `.env`.
+
+Dentro `C:\ATAC` esegui:
+
+```bat
+npm ci
+npm start -- --clear --lan
+```
+
+Mantieni `EXPO_PUBLIC_API_URL` impostato all’IP del PC e il backend aperto nell’altra finestra. Questo aggiornamento grafico non richiede una nuova importazione degli orari né modifiche al backend. La barra inferiore compare in tutte le schermate fuori dalla home. Liquid Glass nativo richiede un iPhone e un runtime compatibili (iOS 26+); sugli altri sistemi viene usato il vetro sfocato. Se hai attivato “Riduci trasparenza” nelle impostazioni Accessibilità di iOS, le superfici sono opache.
